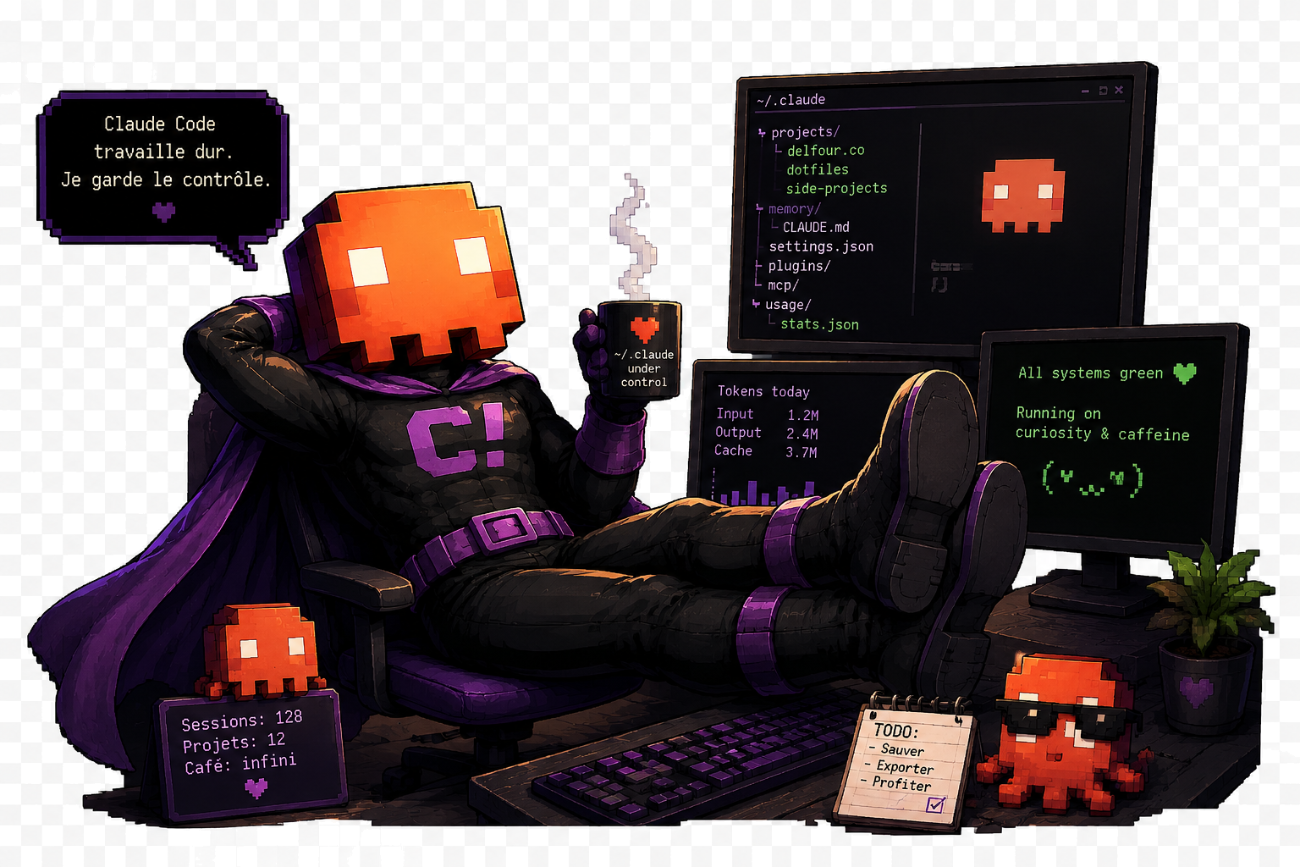
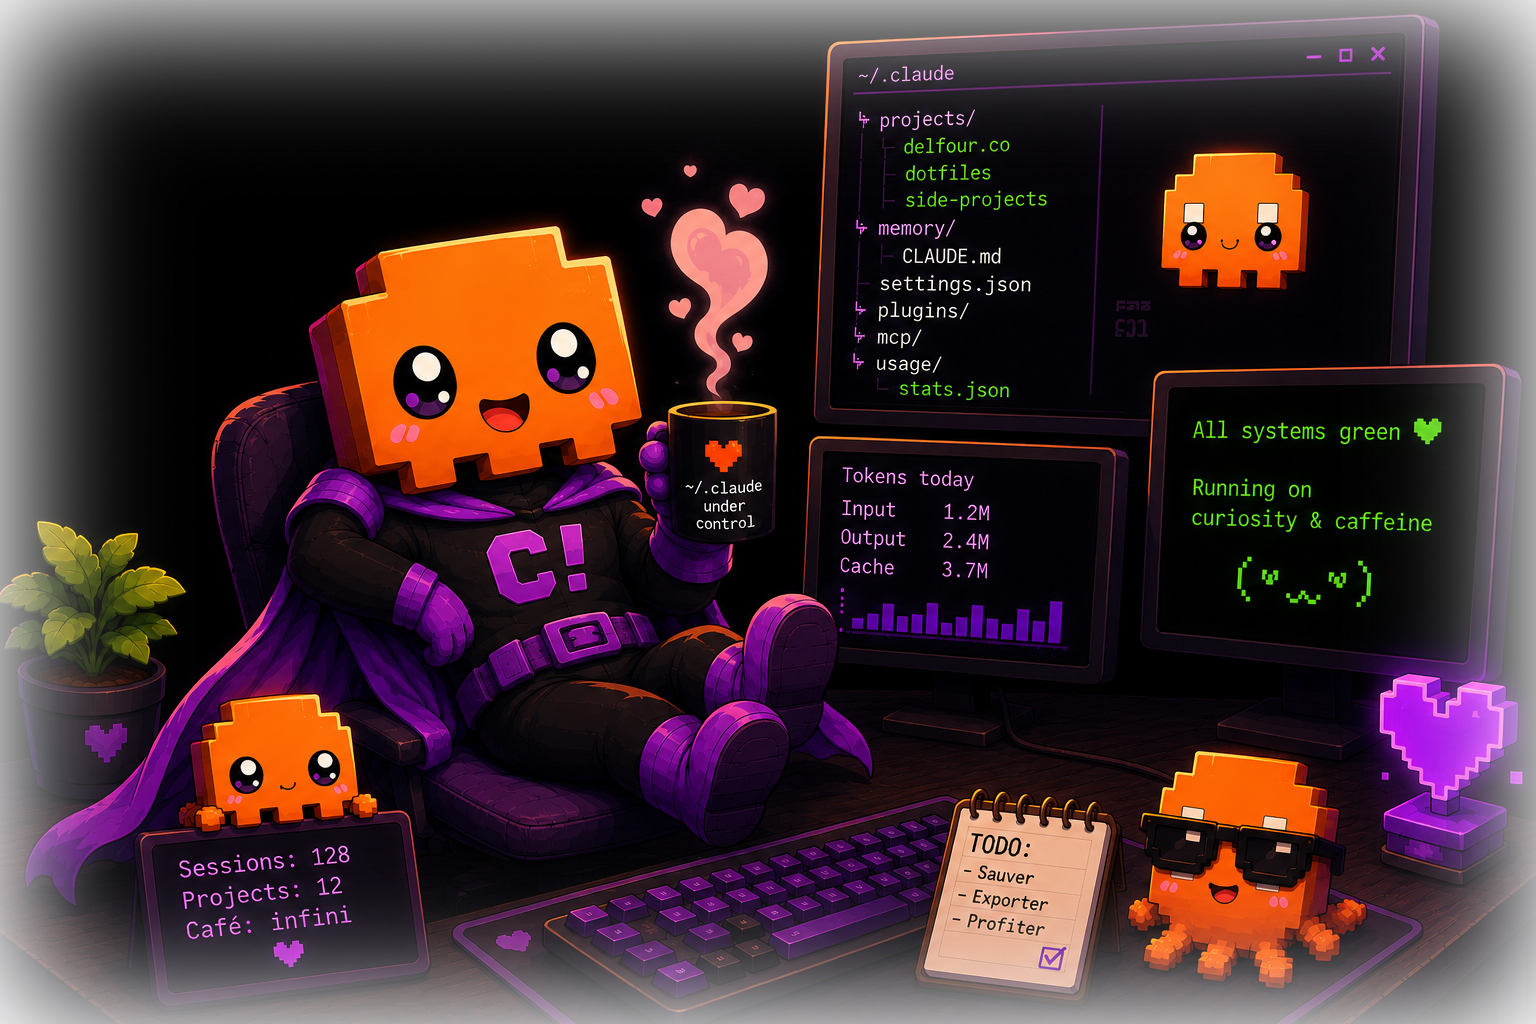
feat(site): illustrations à fond transparent + intégration de preview
- hero / missions / preview : fond noir détouré (transparent), halos et costumes préservés
- footer : scène pleine → fondu vignette des bords vers la page (pas de rectangle)
- .webp régénérés avec alpha
- preview (mascotte-lectrice) intégrée dans la section « Why Claudine exists » (EN + FR), style .why-art

diff --git a/site/sass/main.scss b/site/sass/main.scss
@@ -121,6 +121,13 @@ section > h2 { font-size: 1.6rem; letter-spacing: -0.01em; margin: 0 0 .4rem; }
 }
 
 /* ---------- Why Claudine exists ---------- */
+.why-art {
+  margin: .2rem auto 1.8rem; max-width: 30rem;
+}
+.why-art img {
+  display: block; width: 100%; height: auto;
+  filter: drop-shadow(0 20px 44px rgba(0, 0, 0, .5));
+}
 .why-grid {
   display: grid; gap: 1.6rem; align-items: start;
   grid-template-columns: 1fr 1fr;

diff --git a/site/content/_index.fr.md b/site/content/_index.fr.md
@@ -24,6 +24,12 @@ cta2 = "Installer"
 
 <section class="why">
 <h2>Pourquoi Claudine existe</h2>
+<figure class="why-art">
+<picture>
+<source srcset="preview.webp" type="image/webp">
+<img src="preview.png" width="1200" height="800" alt="Claudine explore ton historique Claude Code à la loupe" loading="lazy">
+</picture>
+</figure>
 <div class="why-grid">
 <div class="why-text">
 <p>À chaque session, Claude Code laisse des traces dans <code>~/.claude</code> : des transcripts nommés par UUID, un <code>settings.json</code> qui grossit, des fichiers mémoire, des hooks, des plugins, des serveurs MCP, des marketplaces, des sauvegardes et des relevés d'usage.</p>

diff --git a/site/content/_index.md b/site/content/_index.md
@@ -24,6 +24,12 @@ cta2 = "Install"
 
 <section class="why">
 <h2>Why Claudine exists</h2>
+<figure class="why-art">
+<picture>
+<source srcset="preview.webp" type="image/webp">
+<img src="preview.png" width="1200" height="800" alt="Claudine reading through your Claude Code history with a magnifying glass" loading="lazy">
+</picture>
+</figure>
 <div class="why-grid">
 <div class="why-text">
 <p>Every session, Claude Code leaves things behind in <code>~/.claude</code>: transcripts named by UUID, a growing <code>settings.json</code>, memory files, hooks, plugins, MCP servers, marketplaces, backups and usage records.</p>
